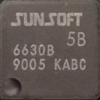
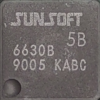
Add image credits for audio IC scans
- Improve Sunsoft 5B IC scan

diff --git a/hlp/2a03.htm b/hlp/2a03.htm
@@ -11,11 +11,15 @@
     <div style="text-align: center;">
         <img id="img" src="img/chip_2A03.png"
         alt="Picture of the 2A03G chip" height="100px"/>
+        <div class="footer">
+            Image: Persune</div>
     </div>
     <br />
     <div style="text-align: center;">
         <img id="img" src="img/chip_2A07.png"
         alt="Picture of the 2A07 chip" height="100px"/>
+        <div class="footer">
+            Image: <a href="https://www.nesdev.org/wiki/File:CPU%3DRP2A07_7C4_39.jpg" target="new">Loglow</a></div>
     </div>
 
     <p class="heading">About</p>

diff --git a/hlp/sunsoft.htm b/hlp/sunsoft.htm
@@ -10,6 +10,8 @@
 
         <div style="text-align: center;">
             <img id="img" src="img/chip_S5B.png" alt="Picture of the S5B chip" height="100px"/>
+        <div class="footer">
+            Image: Forple</div>
         </div>
 
         <p class="heading">About</p>

diff --git a/hlp/mmc5.htm b/hlp/mmc5.htm
@@ -12,6 +12,8 @@
     <div style="text-align: center;">
         <img id="img" src="img/chip_MMC5.png"
         alt="Picture of the MMC5 chip" height="100px"/>
+        <div class="footer">
+            Image: Persune</div>
     </div>
 
     <p class="heading">About</p>

diff --git a/hlp/n163.htm b/hlp/n163.htm
@@ -12,6 +12,8 @@
     <div style="text-align: center;">
         <img id="img" src="img/chip_N163.png"
         alt="Picture of the N163 chip" height="100px"/>
+        <div class="footer">
+            Image: Persune</div>
     </div>
 
     <p class="heading">About</p>

diff --git a/hlp/vrc7.htm b/hlp/vrc7.htm
@@ -11,6 +11,8 @@
     <div style="text-align: center;">
         <img id="img" src="img/chip_VRC7.png"
         alt="Picture of the VRC7 chip" height="100px"/>
+        <div class="footer">
+            Image: Persune</div>
     </div>
 
     <p class="heading">About</p>

diff --git a/hlp/fds.htm b/hlp/fds.htm
@@ -12,6 +12,8 @@
     <div style="text-align: center;">
         <img id="img" src="img/chip_FDS.png"
         alt="Picture of the FDS chip" height="100px"/>
+        <div class="footer">
+            Image: Persune</div>
     </div>
 
     <p class="heading">About</p>

diff --git a/hlp/vrc6.htm b/hlp/vrc6.htm
@@ -9,6 +9,8 @@
 
     <div style="text-align: center;">
         <img id="img" src="img/chip_VRC6.png" alt="Picture of the VRC6 chip" height="100px"/>
+        <div class="footer">
+            Image: Persune</div>
     </div>
 
     <p class="heading">About</p>
